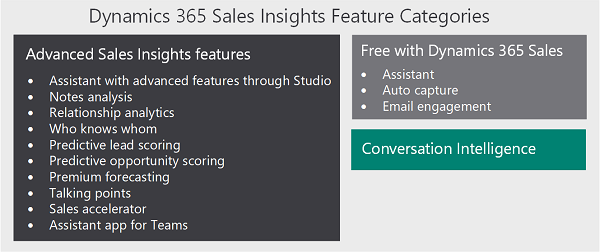
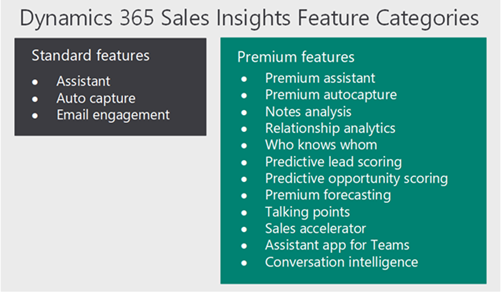
overvirew updated

diff --git a/ai-docs/sales/overview.md b/ai-docs/sales/overview.md
@@ -22,69 +22,72 @@ Welcome to [!INCLUDE[pn-dynamics-sales-insights](../includes/pn-dynamics-sales-i
 >[!IMPORTANT]
 >This feature is intended to help sales managers or supervisors enhance their team’s performance. This feature is not intended for use in making, and should not be used to make, decisions that affect the employment of an employee or group of employees, including compensation, rewards, seniority, or other rights or entitlements. Customers are solely responsible for using Dynamics 365, this feature, and any associated feature or service in compliance with all applicable laws, including laws relating to accessing individual employee analytics and monitoring, recording, and storing communications with end users. This also includes adequately notifying end users that their communications with sales persons may be monitored, recorded, or stored and, as required by applicable laws, obtaining consent from end users before using the feature with them. Customers are also encouraged to have a mechanism in place to inform their sales persons that their communications with end users may be monitored, recorded, or stored.
 
-[!INCLUDE[pn-dynamics-sales-insights](../includes/pn-dynamics-sales-insights.md)] is a suite of features that continuously analyze the vast collection of customer-interaction data already stored in your Dynamics 365 Sales and Office 365 databases. This helps you to better understand your business relationships, evaluate your activities in relation to previous successes, and choose the best path forward. Also, it enables you to build strong relationships with customers, take actions based on insights, and close opportunities faster. These features are categorized as follows: 
+[!INCLUDE[pn-dynamics-sales-insights](../includes/pn-dynamics-sales-insights.md)] continuously analyze the vast collection of customer-interaction data already stored in your Dynamics 365 Sales and Office 365 databases. This helps you to better understand your business relationships, evaluate your activities in relation to previous successes, and choose the best path forward. Also, it enables you to build strong relationships with customers, take actions based on insights, and close opportunities faster.
 
-- [Free Sales Insights features](#free-sales-insights-features) 
+Sales insights helps organizations in the following four areas:
 
-- [Advanced Sales Insights features](#advanced-sales-insights-features)
+-	**Guided selling**: Guide sellers on their next course of actions with timely and actionable insights.
+-	**Productivity intelligence**: Free up sellers time by minimizing manual data entry with contextual, real-time suggestions for creating new records.
+-	**Connection insights**: Build stronger relationship with customers and move relationships forward with AI-guided selling. Take pre-emptive steps to mitigate risks with a relationship health score.
+-	**Predictive models**: Increase conversion and win rates by using AI to prioritize leads and opportunities with the highest likelihood to convert and buy.
 
-- [Conversation Intelligence](#conversation-intelligence) 
-
-The following diagram illustrates the various features available in [!INCLUDE[pn-dynamics-sales-insights](../includes/pn-dynamics-sales-insights.md)]: 
+These Sales Insights features are categorized as [standard](#standard-sales-insights-features) and [premium](#premium-sales-insights-features). The following diagram illustrates the various features available in [!INCLUDE[pn-dynamics-sales-insights](../includes/pn-dynamics-sales-insights.md)]: 
 
 > [!div class="mx-imgBorder"]
 > ![Sales Insights feature categories](media/si-features-categories.png "Sales Insights feature categories")
 
-## Free Sales Insights features 
+## Standard Sales Insights features
 
-These Sales Insights features are available for free with Dynamics 365 Sales: 
+The standard Sales Insights features are available as part of the Dynamics 365 Sales Enterprise plan.
 
-- **Assistant (free)**: The assistant (formerly known as Relationship assistant) combines and analyzes the information that is at its disposal from Dynamics 365 Sales, and then generates a collection of action cards that are displayed as your entry point to Dynamics 365 Sales on mobile devices, and as a carousel or column display on your web-based dashboards. To learn more, see  [Use assistant to guide customer communications](assistant.md). 
+### Guided selling
 
-- **Auto capture (free)**: The auto capture analyzes your email messages directly in Microsoft Exchange to find all messages that might be relevant to your work in sales. The application looks for messages to or from relevant email addresses and presents you with the relevant messages right in Sales. To learn more, see [Auto capture of related emails](auto-capture.md). 
+-	**Assistant (standard)**: The Assistant (formerly known as relationship assistant) analyzes information  from Dynamics 365, Exchange and other sources and suggests personalized and actionable insights to guide sellers on their best course of actions, to build stronger relationships with their customers and to close more deals. To learn more, see [Use assistant to guide customer communications](assistant.md).
 
-- **Email engagement (free)**: The email engagement helps you create more effective email messages—and learn how your contacts are interacting with them. Stay on top of your email and prioritize those prospects or customers that are most engaged. To learn more, see [Use email engagement to view message interactions](email-engagement.md). 
+### Productivity intelligence
 
-## Advanced Sales Insights features 
+-	**Auto capture (standard + premium)**: Auto capture helps to keep track with customer engagements by surfacing suggestions to track emails and meetings from Microsoft Exchange right in Sales. This way, nothing falls through the cracks and you have full control over what is being shared. In addition to activity capture, auto capture also surfaces suggestions for new contacts based on these activities. To learn more, see [Capture customer-related activities with Auto capture](auto-capture.md).
 
-The advanced Sales Insights features consist of the [free Sales Insights features](#free-sales-insights-features) along with the following features: 
+-	**Email engagement (standard)**: The email engagement helps you create more effective email messages&mdash;and learn how your contacts are interacting with them. Stay on top of your email and prioritize those prospects or customers that are most engaged. To learn more, see [Use email engagement to view message interactions](email-engagement.md) 
 
-- **Assistant with Studio (full capabilities)**: Consists of base assistant capabilities along with enhanced features that allow you to create and display custom insight cards using the Studio to users. The Studio helps you to create custom insight cards through Microsoft Flow. After you create the cards, you can configure prioritization and who can see the cards. To learn more, see [Manage insight cards](manage-custom-cards-flow.md). 
+## Premium Sales Insights features 
 
-- **Relationship analytics**: Gathers information from Dynamics 365 Sales for key performance indicators (KPIs) and activity histories, and displays it in a graphical representation. To learn more, see [Use Relationship analytics to gather KPIs](relationship-analytics.md). 
+The premium Sales Insights features require a Sales Insights license that consist of the [standard features](#standard-sales-insights-features) along with the following features:
 
-- **Predictive lead scoring**: Helps you to focus on revenue generation efforts by providing a score to prioritize efforts on quality leads. To learn more, see [Prioritize leads through scores](work-predictive-lead-scoring.md). 
+### Guided selling
 
-- **Predictive opportunity scoring**: Helps you to focus on revenue generation efforts by providing a score to prioritize efforts on quality opportunities. To learn more, see [Prioritize opportunities through scores](work-predictive-opportunity-scoring.md). 
+-	**Assistant (premium)**: Consists of base assistant capabilities along with enhanced features that allow you to create and display custom insight cards using the Studio. The Studio helps you to create custom insight cards through Microsoft Flow, configure prioritization and who can see the cards. To learn more, see [Manage insight cards](manage-custom-cards-flow.md).
 
-- **Premium forecasting**: Helps you to focus on revenue generation efforts by providing forecast projections based on sales pipeline and historical data. To learn more, see [Analyze revenue outcome using predictive forecasting](analyze-revenue-outcome-using-predictive-forecasting.md).
+### Productivity intelligence
 
-- **Notes analysis**: Monitors notes that you enter regarding a recent meeting or discussion with your customer to provide intelligent suggestions. To learn more, see [How notes analysis assists you with suggestion](notes-analysis.md). 
+-	**Notes analysis**: Monitors notes that you enter regarding a recent meeting or discussion with your customer to provide intelligent suggestions for new activities. To learn more, see [How notes analysis assists you with suggestion](notes-analysis.md).
 
-- **Talking points**: Displays topics to start a conversation with your customer such as sports, vacation, family, and entertainment. To learn more, see [Know conversation starters for your customers](talking-points.md). 
+-	**Sales accelerator and sequence (preview)**: Helps sales teams in organizations to focus on high-velocity selling by a tailored experience for sellers by minimizing the time spent on identifying who is the next best customer to reach, gathering information across multiple sources, and focus on how approaching customers. To learn more, see [What is sales accelerator](sales-accelerator-intro.md).
 
-- **Who knows whom**: Provides details such as names and email addresses of your colleagues who know a lead that you are going to interact with. To learn more, see [How to get introduced to a lead](who-knows-whom.md). 
+### Connection insights
 
-- **Sales accelerator**: Helps sales teams in organizations to focus on high-velocity selling by a tailored experience for sellers by minimizing the time spent on identifying who is the next best customer to reach, gathering information across multiple sources, and focus on how approaching customers.  To learn more, see [What is sales accelerator](sales-accelerator-intro.md).
+-	**Relationship analytics and health**: Gathers information from Dynamics 365 Sales for key performance indicators (KPIs) and activity histories and displays it in a graphical representation. To learn more, see [Use Relationship analytics to gather KPIs](relationship-analytics.md). 
 
-- **Dynamics 365 assistant for Microsoft Teams**: Provides sellers with timely and in-context intelligent guidance across the sales journey so that sellers can spend more time building relationships with their customers. To learn more, see [Overview of Dynamics 365 assistant](overview-dynamics-365-assistant-app-teams.md). 
+-	**Talking points**: Suggests topics to start a conversation with your customers based on historical email conversations such as sports, vacation, family, and entertainment. To learn more, see [Know conversation starters for your customers](talking-points.md).
 
-## Conversation Intelligence 
+-	**Who knows whom**: Provides details such as names and email addresses of your colleagues who know a lead that you are going to interact with. To learn more, see [How to get introduced to a lead](who-knows-whom.md).
 
-Conversation Intelligence provides you with the information and insights to intelligently manage the sales team, proactively coach sellers, and quickly answer questions regarding the business. To achieve this, the Dynamics 365 Conversation Intelligence provides you with information through key performance indicators (KPIs) for pipeline and deals, and intelligent call data KPIs through conversations intelligence. 
+-	**Conversation intelligence**: Conversation intelligence provides you with information and insights on top of your customer calls, that help  easily follow-up on business critical items, allow sellers to quickly transform their engagements into revenue and enable managers intelligently manage the sales team and proactively coach sellers. To achieve this, the Dynamics 365 Conversation Intelligence provides you with information through key performance indicators (KPIs) for pipeline and deals, and intelligent call data KPIs through conversations intelligence, such as Sentiment analysis, Keywords detection, Action Items extraction and tracking, alongside the option to playback the call and sift through the transcript - provide an easy way to go through thousands and millions of calls to get to those which matter most in seconds. To learn more, see [Improve seller coaching and sales potential with Conversation Intelligence](dynamics365-sales-insights-app.md)
 
-The features in Conversation Intelligence are specifically designed to help sales managers and sellers to intelligently manage and quickly answer their most important business questions.
+### Predictive scoring
+
+-	**Predictive lead scoring**: Helps you to focus on revenue generation efforts by providing a score to prioritize efforts on quality leads. To learn more, see [Prioritize leads through scores](work-predictive-lead-scoring.md).
+
+-	**Predictive opportunity scoring**: Helps you to focus on revenue generation efforts by providing a score to prioritize efforts on win opportunities. To learn more, see [Prioritize opportunities through scores](work-predictive-opportunity-scoring.md).
+
+-	**Premium forecasting**: Helps you to focus on revenue generation efforts by providing forecast projections based on sales pipeline and historical data. To learn more, see [Analyze revenue outcome using predictive forecasting](analyze-revenue-outcome-using-predictive-forecasting.md).
+
+
+**Dynamics 365 assistant for Microsoft Teams (preview)**: Provides sellers with timely and in-context intelligent guidance across the sales journey so that sellers can spend more time building relationships with their customers. To learn more, see [Overview of Dynamics 365 assistant](overview-dynamics-365-assistant-app-teams.md). 
 
 > [!NOTE]
-> You must purchase a **[!INCLUDE[pn-dynamics-sales-insights](../includes/pn-dynamics-sales-insights.md)]** license to use Dynamics 365 Sales Insights features.
+> The premium Sales Insights features that are in preview don’t require Sales Insights license during the preview period.
 
-The following features are available under the Dynamics 365 Sales Insights app:  
-
-- Overall sales and seller insights
-- Team report
-- Conversation intelligence
-
-To learn more, see [Improve seller coaching and sales potential with Conversation Intelligence](dynamics365-sales-insights-app.md).
 
 ## For effective use of Sales Insights
 

diff --git a/ai-docs/sales/faqs-sales-insights.md b/ai-docs/sales/faqs-sales-insights.md
@@ -37,8 +37,8 @@ Sales insights is available in the following regions:
 -    Oceania (OCE)
 
 >[!NOTE]
->-	Sales Insights is not available in the following regions – Brazil, France, Germany, South Africa, and UAE.
->-	Sales Insights is not available on Government Community Cloud (GCC), including USG, Department of Defense (DoD), and China.
+>-	Currently, Sales Insights is not available in the following regions – Brazil, France, Germany, South Africa, and UAE.
+>-	Currently, Sales Insights is not available on Government Community Cloud (GCC), including USG, Department of Defense (DoD), and China.
 
 
 **In which region is the features available?**<br>
@@ -86,7 +86,7 @@ Sales insights features are available in the following regions:
 </table>
 
 >[!NOTE]
->For relationship analytics, support for Exchange online is available only in North America (NAM) and Europe, the Middle East, and Africa (EMEA).
+>Currently, for relationship analytics, support for Exchange online is available only in North America (NAM) and Europe, the Middle East, and Africa (EMEA).
 
 **What languages are supported now?**<br>
 Sales insights support the following languages:<br>
